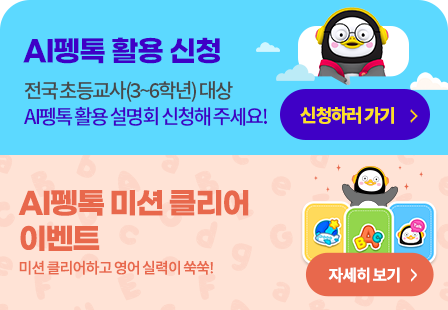
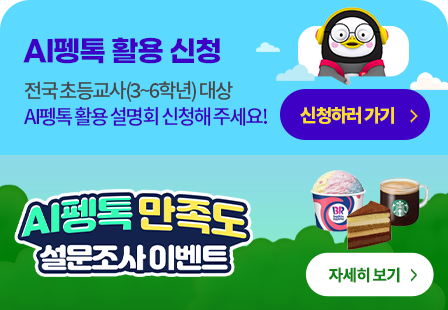
floating popup

diff --git a/html/index_pop_221205.html b/html/index_pop_221205.html
@@ -1194,15 +1194,12 @@
 		body.main .mo_ver .popup_M.main_noti a.btn_link_01 { width: 62%; height: 18%; top: 61%; left: 52%; transform: translateX(-50%); opacity: 0; background: #ff0000; }
 		body.main .mo_ver .popup_M.main_noti a.btn_link_02 { width: 65%; height: 18%; top: 68%; left: 49%; transform: translateX(-50%); opacity: 0; background: #ff0000; }
 
-		/* 2022-09-22 POP 슬라이드 링크 */
-		body.main .mo_ver .swiperC_popup a { display: block; display: -ms-flexbox; position: absolute; opacity: 0; text-indent: -9999px; font-size: 0; }
-		body.main .mo_ver .swiperC_popup a.swiperC_bottom {width: 40%; height: 20%; top: 27%; left: 79%; transform: translateX(-50%); opacity: 0; background: #ff0000;}
-		body.main .mo_ver .swiperC_popup a.swiperC_top {width: 40%; height: 20%; top: 76%; left: 79%; transform: translateX(-50%); opacity: 0; background: #ff0000;}
-
 		/* 2022-12-02 POP 플로팅 링크 */
-	 	body.main .mo_ver .swiperF_popup a { display: block; display: -ms-flexbox; position: absolute; opacity: 0; text-indent: -9999px; font-size: 0; }
-		body.main .mo_ver .swiperF_popup a.swiperF_first { width: 40%; height: 20%; top: 27%; left: 79%; transform: translateX(-50%); opacity: 0; background: #ff0000; }
-		body.main .mo_ver .swiperF_popup a.swiperC_second { width: 32%; height: 17%; bottom: 3%; left: 82%; transform: translateX(-50%); opacity: 0; background: #ffff00;}
+		body.main .floating_wrap{top: 5%;}
+		body.main .mo_ver .swiperF_popup {position: relative;}
+		body.main .mo_ver .swiperF_popup a.swiperF_first {position: absolute; top: 18%; width: 40%; height: 13%; left: 79%; transform: translateX(-50%); opacity: 0; background: #ff0000; }
+		body.main .mo_ver .swiperF_popup a.swiperC_second {position: absolute; top: 53%; width: 32%; height: 12%;height: 12%; left: 82%; transform: translateX(-50%); opacity: 0; background: #ffff00; }
+		body.main .mo_ver .swiperF_popup a.swiperC_third { position: absolute; top: 86%; width: 32%; height: 12%; left: 82%; transform: translateX(-50%); opacity: 0; background: #ff00ff; }
 	</style>
 
 	<div class="pc_ver">
@@ -1292,6 +1289,23 @@
 				</article>
 			</div>
 			<!-- //2022-12-02 만족도 설문조사 이벤트 -->
+
+			<!-- 2022-12-05 미션 클리어 이벤트 -->
+ 			<div class="pop_floating floating_bottom">
+				<article class="popup_M main_noti" id="pop_8040">
+					<span class="wrap">
+						<a href="#" target="_blank"><img
+								src="../images/main/pc_floating_bottom_1202.png" alt="스쿨톡"></a> <!-- 2022-12-05 미션 링크 -->
+						<span class="noti_check combo">
+							<input type="checkbox" id="m_noti" name="m_noti" onclick="layerPop3DayClose('8040');">
+							<label for="m_noti">3일 동안 열지 않음</label>
+							<button type="button" class="bt ico n">닫기</button>
+						</span>
+						<button type="button" class="bt ico x">닫기</button>
+					</span>
+				</article>
+			</div>
+			<!-- //2022-12-05 미션 클리어 이벤트 -->
 		</div>
 	</div>
 
@@ -1333,6 +1347,12 @@
 										src="../images/main/m_floating_bottom_1205.png" alt="만족도 설문조사 이벤트"></a>
 							</div>
 							<!-- //2022-12-02 M 만족도 설문조사 이벤트 -->
+							<!-- 2022-12-05 M 미션 클리어 이벤트 -->
+ 							<div class="swiper-slide">
+								<a href="#" target="_blank"><img
+										src="../images/main/m_floating_bottom_1202.png" alt="미션클리어 이벤트"></a> <!-- 2022-12-05 미션 링크 -->
+							</div>
+							<!-- //2022-12-05 M 미션 클리어 이벤트 -->
 						</div>
 						<div class="swiper-pagination"></div>
 						<div class="wrap-autoplay-control">
@@ -1364,12 +1384,13 @@
 		</div>
 		<div class="swiperF_modal">
 			<div class="swiperF_popup">
-				<!-- 2022-12-02 모달 팝업 수정 -->
-				<img src="../images/main/swiperF_popup_1202.png" alt="플로팅 팝업">
+				<!-- 2022-12-05 모달 팝업 수정 -->
+				<img src="../images/main/swiperF_popup_1205.png" alt="플로팅 팝업"> <!-- 2022-12-05 이미지 수정 -->
 				<a href="https://www.ebse.co.kr/apps/event/eventView.do?event_id=76&article_id=0000000090963"
 					class="swiperF_first" target="_blank"></a>
 				<a href="https://pengha.oc.toast.com/penghi/hc/notice/226/" class="swiperC_second" target="_blank"></a>
-				<!-- //2022-12-02 모달 팝업 수정 -->
+				<a href="#" class="swiperC_third" target="_blank"></a> <!-- 2022-12-05 미션 링크 -->
+				<!-- //2022-12-05 모달 팝업 수정 -->
 				<button class="modal_close"><span class="hide">닫기</span></button>
 			</div>
 		</div>
